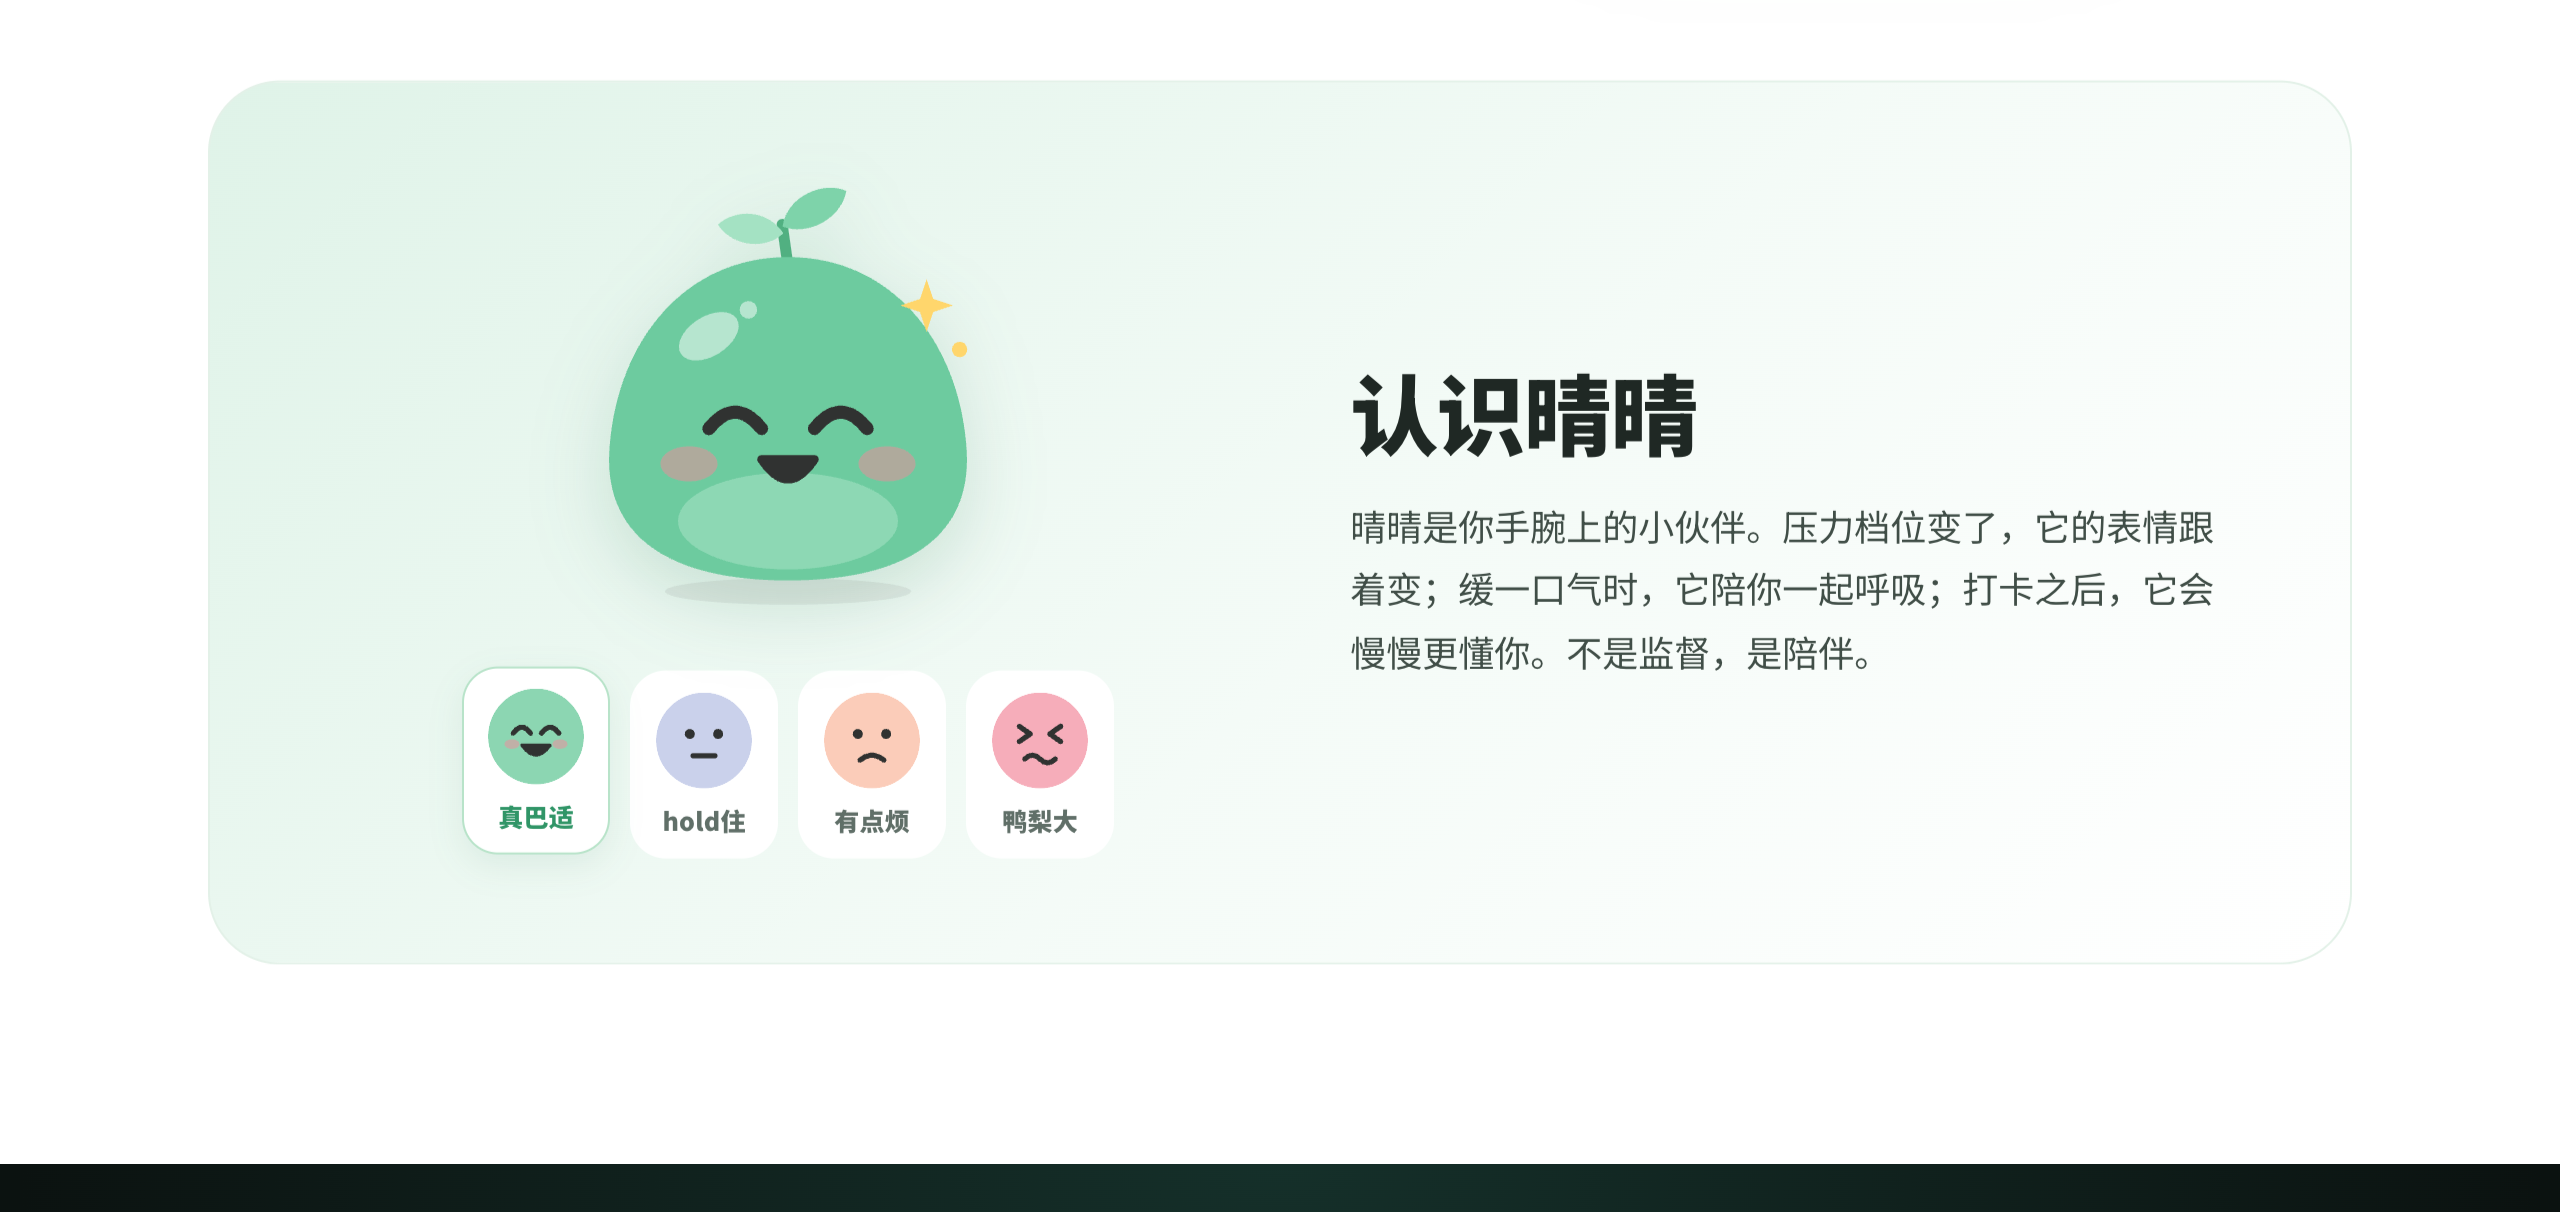
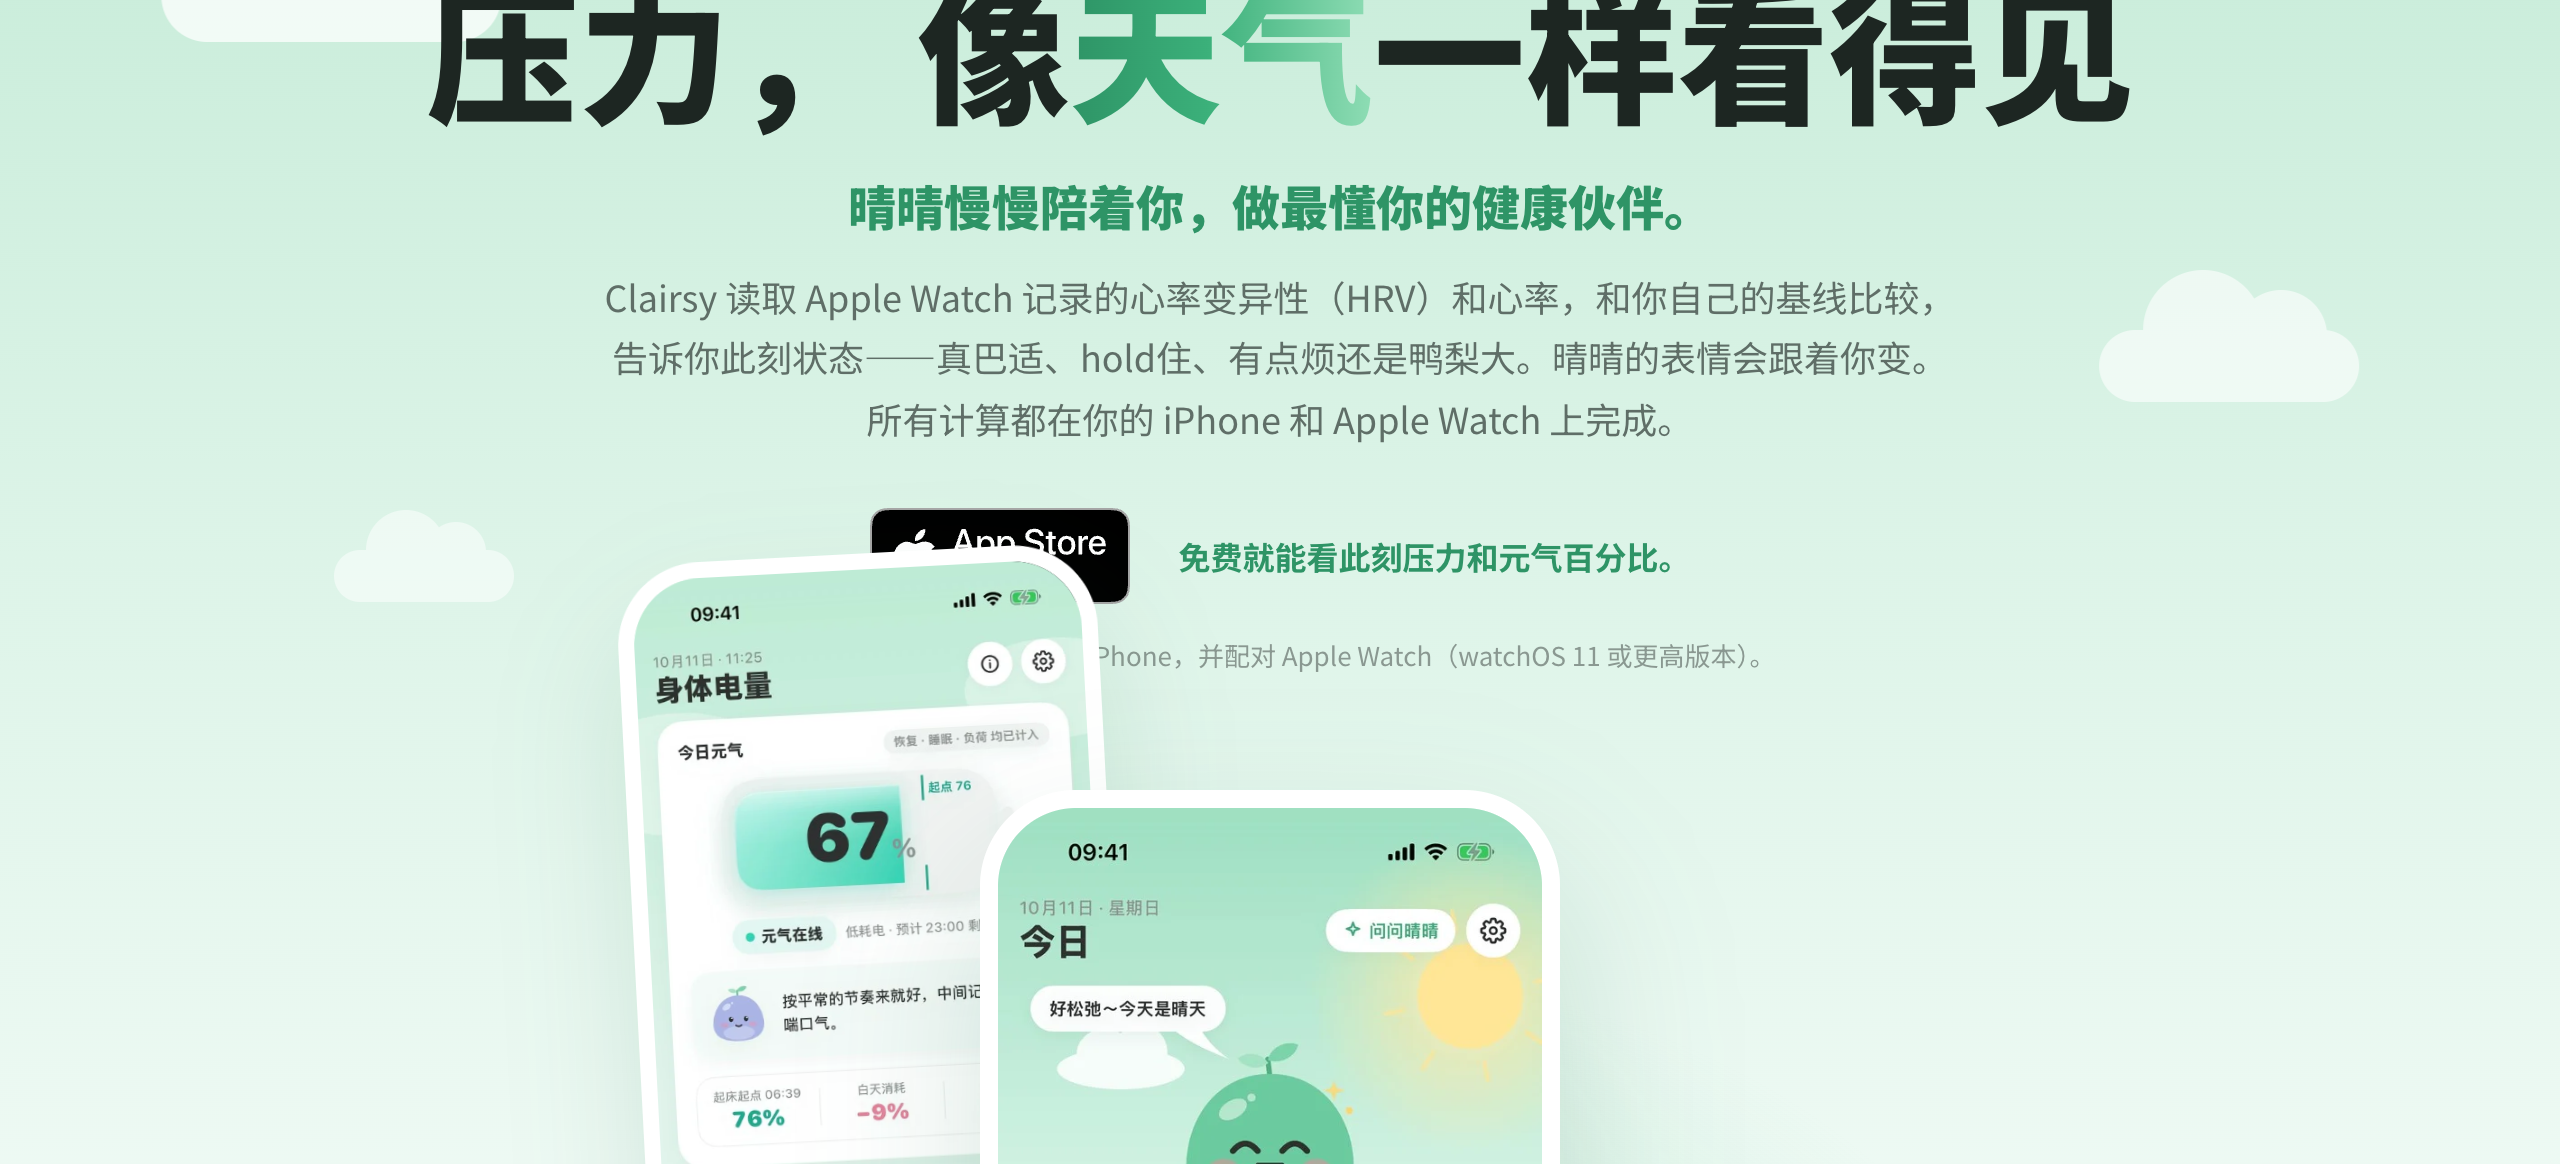
Meet Qingqing: clean transparent app mood frames (no dark aura), drop unused webp

diff --git a/en/index.html b/en/index.html
@@ -21,8 +21,8 @@
 <section id="features" class="feat"><div class="wrap"><p class="kick reveal">FEATURES</p><h2 class="reveal">Built around your own baseline</h2></div>
 <div class="wrap sgrid"><div class="steps"><div class="step reveal" data-step="0"><span class="n">01</span><h3>Stress, plain and clear</h3><p>HRV and resting heart rate become four clear levels — Chill, Steady, Tense, Stressed — with a stress index and 7-day average. Quick mood check-ins calibrate it to how you actually feel.</p><div class="inl"><div class="ph"><img src="../assets/today-en.webp?v=27ea3ea22e" alt="Clairsy Today" width="603" height="1311" loading="lazy"></div></div></div><div class="step reveal" data-step="1"><span class="n">02</span><h3>Daily Vigor drains</h3><p>Each morning Clairsy sets your Daily Vigor from recovery, sleep and training load — then stress drains it through the day. Sleep duration, score, sleep debt and stages at a glance.</p><div class="inl"><div class="ph"><img src="../assets/vigor-en.webp?v=d0a4bb5afe" alt="Daily Vigor" width="603" height="1311" loading="lazy"></div></div></div><div class="step reveal" data-step="2"><span class="n">03</span><h3>Breathe it down</h3><p>Resonance breathing (4 in, 6 out), cyclic sighing, 4-7-8 and box breathing, with Qingqing breathing along — on iPhone and Apple Watch. Before-and-after readings show what changed.</p><div class="inl"><div class="ph"><img src="../assets/breath-en.webp?v=e8665a2bd9" alt="Breathing exercise" width="603" height="1311" loading="lazy"></div></div></div><div class="step reveal" data-step="3"><span class="n">04</span><h3>Your watch face keeps up</h3><p>Watch face and complications show your current level, with a one-tap “Measure now”, Home Screen widgets, and optional local stress alerts.</p><div class="inl"><div class="wa"><img src="../assets/watch-en.webp?v=7646d3a049" alt="Clairsy on Apple Watch" width="416" height="496" loading="lazy"></div></div></div></div><div class="sticky"><div class="devbox"><div class="frame on" data-frame="0"><div class="ph"><img src="../assets/today-en.webp?v=27ea3ea22e" alt="Clairsy Today" width="603" height="1311" loading="lazy"></div></div><div class="frame" data-frame="1"><div class="ph"><img src="../assets/vigor-en.webp?v=d0a4bb5afe" alt="Daily Vigor" width="603" height="1311" loading="lazy"></div></div><div class="frame" data-frame="2"><div class="ph"><img src="../assets/breath-en.webp?v=e8665a2bd9" alt="Breathing exercise" width="603" height="1311" loading="lazy"></div></div><div class="frame" data-frame="3"><div class="wa"><img src="../assets/watch-en.webp?v=7646d3a049" alt="Clairsy on Apple Watch" width="416" height="496" loading="lazy"></div></div></div><div class="dots" aria-hidden="true"><i class="on"></i><i class=""></i><i class=""></i><i class=""></i></div></div></div></section>
 <section id="qingqing" class="meet"><div class="wrap"><div class="meetcard reveal">
-<div class="meetvis"><div class="meet-stage" aria-hidden="true"><img class="meet-face on" data-mood="chill" src="../assets/moods/chill.png?v=1a8133ca97" alt="" width="220" height="220" loading="lazy"><img class="meet-face" data-mood="steady" src="../assets/moods/steady.png?v=18e06c274f" alt="" width="220" height="220" loading="lazy"><img class="meet-face" data-mood="tense" src="../assets/moods/tense.png?v=1edbe88cee" alt="" width="220" height="220" loading="lazy"><img class="meet-face" data-mood="stressed" src="../assets/moods/stressed.png?v=8935e0c9f9" alt="" width="220" height="220" loading="lazy"></div>
-<div class="moods" role="group" aria-label="Meet Qingqing"><button type="button" class="mood on" data-mood="chill" aria-pressed="true"><img src="../assets/moods/chill.png?v=1a8133ca97" alt="" width="56" height="56" loading="lazy"><span>Chill</span></button><button type="button" class="mood" data-mood="steady" aria-pressed="false"><img src="../assets/moods/steady.png?v=18e06c274f" alt="" width="56" height="56" loading="lazy"><span>Steady</span></button><button type="button" class="mood" data-mood="tense" aria-pressed="false"><img src="../assets/moods/tense.png?v=1edbe88cee" alt="" width="56" height="56" loading="lazy"><span>Tense</span></button><button type="button" class="mood" data-mood="stressed" aria-pressed="false"><img src="../assets/moods/stressed.png?v=8935e0c9f9" alt="" width="56" height="56" loading="lazy"><span>Stressed</span></button></div></div>
+<div class="meetvis"><div class="meet-stage" aria-hidden="true"><img class="meet-face on" data-mood="chill" src="../assets/moods/chill.png?v=1ec6799918" alt="" width="220" height="220" loading="lazy"><img class="meet-face" data-mood="steady" src="../assets/moods/steady.png?v=08b04779e4" alt="" width="220" height="220" loading="lazy"><img class="meet-face" data-mood="tense" src="../assets/moods/tense.png?v=b3b451586a" alt="" width="220" height="220" loading="lazy"><img class="meet-face" data-mood="stressed" src="../assets/moods/stressed.png?v=03b7959c35" alt="" width="220" height="220" loading="lazy"></div>
+<div class="moods" role="group" aria-label="Meet Qingqing"><button type="button" class="mood on" data-mood="chill" aria-pressed="true"><img src="../assets/moods/chill.png?v=1ec6799918" alt="" width="56" height="56" loading="lazy"><span>Chill</span></button><button type="button" class="mood" data-mood="steady" aria-pressed="false"><img src="../assets/moods/steady.png?v=08b04779e4" alt="" width="56" height="56" loading="lazy"><span>Steady</span></button><button type="button" class="mood" data-mood="tense" aria-pressed="false"><img src="../assets/moods/tense.png?v=b3b451586a" alt="" width="56" height="56" loading="lazy"><span>Tense</span></button><button type="button" class="mood" data-mood="stressed" aria-pressed="false"><img src="../assets/moods/stressed.png?v=03b7959c35" alt="" width="56" height="56" loading="lazy"><span>Stressed</span></button></div></div>
 <div class="meettxt"><h2>Meet Qingqing</h2><p>Qingqing is the little companion on your wrist. When your stress level changes, so does its expression. When you take a breather, it breathes with you. After check-ins, it learns you a little better. Not a coach — a companion.</p></div>
 </div></div></section>
 <section class="dark"><div class="wrap"><h2 class="reveal">Compared only to <span>you</span>.</h2><div class="stats"><div class="stat reveal"><b>Your baseline only</b><small>Recovery HRV and resting HR vs your personal baseline; check-ins fine-tune it.</small></div><div class="stat reveal"><b>Live on your wrist</b><small>Watch face and complications refresh when a new sample lands.</small></div><div class="stat reveal"><b>Never leaves your device</b><small>No servers, no account, no tracking.</small></div><div class="stat reveal"><b>On your wrist</b><small>Check-ins help it learn you; a soft nudge when stress rises.</small></div></div></div></section>

diff --git a/zh/index.html b/zh/index.html
@@ -21,8 +21,8 @@
 <section id="features" class="feat"><div class="wrap"><p class="kick reveal">功能</p><h2 class="reveal">围绕你自己的基线</h2></div>
 <div class="wrap sgrid"><div class="steps"><div class="step reveal" data-step="0"><span class="n">01</span><h3>压力一眼看懂</h3><p>HRV 和静息心率与你的个人基线比较，一眼看出四档：真巴适、hold住、有点烦、鸭梨大，并给出压力指数和 7 日均值。随手打卡此刻感受，帮它校准到你的真实体感。</p><div class="inl"><div class="ph"><img src="../assets/today-zh.webp?v=3d693c9e05" alt="Clairsy Today" width="603" height="1311" loading="lazy"></div></div></div><div class="step reveal" data-step="1"><span class="n">02</span><h3>今日元气会耗尽</h3><p>每天早上，Clairsy 根据恢复、睡眠和训练负荷定下今日元气；一天里压力会慢慢耗尽它。睡眠时长、得分、睡眠负债和分期一目了然。</p><div class="inl"><div class="ph"><img src="../assets/vigor.webp?v=dfa2228dbb" alt="Daily Vigor" width="603" height="1311" loading="lazy"></div></div></div><div class="step reveal" data-step="2"><span class="n">03</span><h3>缓一口气</h3><p>共振呼吸（吸 4 呼 6）、循环叹息、4-7-8 呼吸和方块呼吸，晴晴陪你一起呼吸——iPhone 和 Apple Watch 都能用。缓一下前后的读数变化一看便知。</p><div class="inl"><div class="ph"><img src="../assets/breath-zh.webp?v=1e5c2805f1" alt="呼吸减压" width="603" height="1311" loading="lazy"></div></div></div><div class="step reveal" data-step="3"><span class="n">04</span><h3>表盘跟着变</h3><p>表盘和复杂功能显示此刻状态，一键「立即测量」；还有主屏幕小组件，以及可选的本地压力提醒。</p><div class="inl"><div class="wa"><img src="../assets/watch.webp?v=ed6af9df60" alt="Clairsy on Apple Watch" width="416" height="496" loading="lazy"></div></div></div></div><div class="sticky"><div class="devbox"><div class="frame on" data-frame="0"><div class="ph"><img src="../assets/today-zh.webp?v=3d693c9e05" alt="Clairsy Today" width="603" height="1311" loading="lazy"></div></div><div class="frame" data-frame="1"><div class="ph"><img src="../assets/vigor.webp?v=dfa2228dbb" alt="Daily Vigor" width="603" height="1311" loading="lazy"></div></div><div class="frame" data-frame="2"><div class="ph"><img src="../assets/breath-zh.webp?v=1e5c2805f1" alt="呼吸减压" width="603" height="1311" loading="lazy"></div></div><div class="frame" data-frame="3"><div class="wa"><img src="../assets/watch.webp?v=ed6af9df60" alt="Clairsy on Apple Watch" width="416" height="496" loading="lazy"></div></div></div><div class="dots" aria-hidden="true"><i class="on"></i><i class=""></i><i class=""></i><i class=""></i></div></div></div></section>
 <section id="qingqing" class="meet"><div class="wrap"><div class="meetcard reveal">
-<div class="meetvis"><div class="meet-stage" aria-hidden="true"><img class="meet-face on" data-mood="chill" src="../assets/moods/chill.png?v=1a8133ca97" alt="" width="220" height="220" loading="lazy"><img class="meet-face" data-mood="steady" src="../assets/moods/steady.png?v=18e06c274f" alt="" width="220" height="220" loading="lazy"><img class="meet-face" data-mood="tense" src="../assets/moods/tense.png?v=1edbe88cee" alt="" width="220" height="220" loading="lazy"><img class="meet-face" data-mood="stressed" src="../assets/moods/stressed.png?v=8935e0c9f9" alt="" width="220" height="220" loading="lazy"></div>
-<div class="moods" role="group" aria-label="认识晴晴"><button type="button" class="mood on" data-mood="chill" aria-pressed="true"><img src="../assets/moods/chill.png?v=1a8133ca97" alt="" width="56" height="56" loading="lazy"><span>真巴适</span></button><button type="button" class="mood" data-mood="steady" aria-pressed="false"><img src="../assets/moods/steady.png?v=18e06c274f" alt="" width="56" height="56" loading="lazy"><span>hold住</span></button><button type="button" class="mood" data-mood="tense" aria-pressed="false"><img src="../assets/moods/tense.png?v=1edbe88cee" alt="" width="56" height="56" loading="lazy"><span>有点烦</span></button><button type="button" class="mood" data-mood="stressed" aria-pressed="false"><img src="../assets/moods/stressed.png?v=8935e0c9f9" alt="" width="56" height="56" loading="lazy"><span>鸭梨大</span></button></div></div>
+<div class="meetvis"><div class="meet-stage" aria-hidden="true"><img class="meet-face on" data-mood="chill" src="../assets/moods/chill.png?v=1ec6799918" alt="" width="220" height="220" loading="lazy"><img class="meet-face" data-mood="steady" src="../assets/moods/steady.png?v=08b04779e4" alt="" width="220" height="220" loading="lazy"><img class="meet-face" data-mood="tense" src="../assets/moods/tense.png?v=b3b451586a" alt="" width="220" height="220" loading="lazy"><img class="meet-face" data-mood="stressed" src="../assets/moods/stressed.png?v=03b7959c35" alt="" width="220" height="220" loading="lazy"></div>
+<div class="moods" role="group" aria-label="认识晴晴"><button type="button" class="mood on" data-mood="chill" aria-pressed="true"><img src="../assets/moods/chill.png?v=1ec6799918" alt="" width="56" height="56" loading="lazy"><span>真巴适</span></button><button type="button" class="mood" data-mood="steady" aria-pressed="false"><img src="../assets/moods/steady.png?v=08b04779e4" alt="" width="56" height="56" loading="lazy"><span>hold住</span></button><button type="button" class="mood" data-mood="tense" aria-pressed="false"><img src="../assets/moods/tense.png?v=b3b451586a" alt="" width="56" height="56" loading="lazy"><span>有点烦</span></button><button type="button" class="mood" data-mood="stressed" aria-pressed="false"><img src="../assets/moods/stressed.png?v=03b7959c35" alt="" width="56" height="56" loading="lazy"><span>鸭梨大</span></button></div></div>
 <div class="meettxt"><h2>认识晴晴</h2><p>晴晴是你手腕上的小伙伴。压力档位变了，它的表情跟着变；缓一口气时，它陪你一起呼吸；打卡之后，它会慢慢更懂你。不是监督，是陪伴。</p></div>
 </div></div></section>
 <section class="dark"><div class="wrap"><h2 class="reveal">只和<span>你自己</span>比。</h2><div class="stats"><div class="stat reveal"><b>只和自己比</b><small>恢复 HRV 与静息心率对照你的个人基线；打卡后还会微调。</small></div><div class="stat reveal"><b>表盘跟着刷新</b><small>新样本一到，表盘和复杂功能跟着更新。</small></div><div class="stat reveal"><b>数据不出机</b><small>无服务器、无账号、无追踪。</small></div><div class="stat reveal"><b>晴晴在你手腕上</b><small>打卡后更懂你，压力大时轻轻喊你缓一口气。</small></div></div></div></section>
